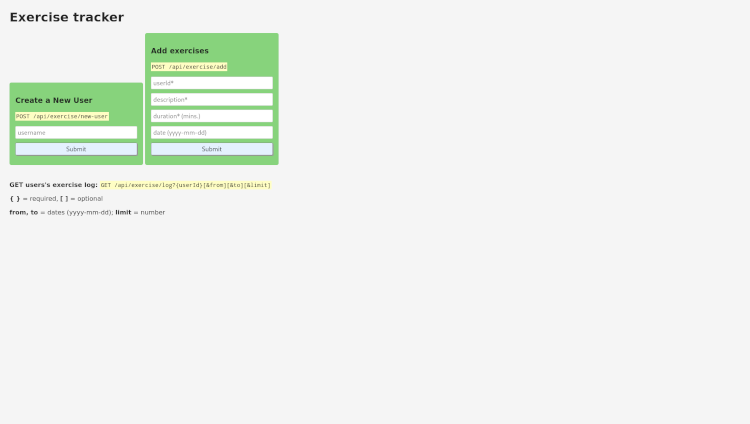
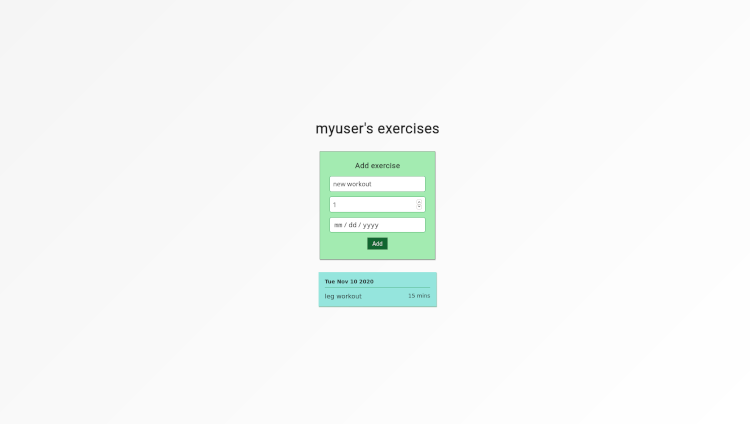
refactor(gallery): update exercise tracker image, url, and description

diff --git a/src/scripts/projecList.js b/src/scripts/projecList.js
@@ -87,14 +87,14 @@ const projectList = [
     name: 'Exercise Tracker',
     img: images['sh_exercise-tracker'],
     tags: ['Node.js', 'Express.js', 'Mongoose'],
-    url: 'https://guillermo-meardon.glitch.me/',
+    url: 'https://tfp-fcc-exercise-tracker.herokuapp.com/',
     gh: 'https://github.com/theforbiddenpool/fcc-projects/tree/master/apis-and-microservices/exercise-tracker',
     description: `
       <p>
         The Exercise Tracker project is part of the <a href="https://www.freecodecamp.org/learn/apis-and-microservices/apis-and-microservices-projects/exercise-tracker">APIs and Microservices FreeCodeCamp</a> module. 
       </p>
       <p>
-        It was the first backend project I struggled a lot with. I had to use Mongoose functionalities I hadn't previously worked with. But it taught me a lot about using Mongoose and Express. I got to try <code>express.Router()</code> for the first time. Overall, I think it works really well. I hope one day to build a better frontend to go with it.
+        It was the first backend project I struggled a lot with. I had to use Mongoose functionalities I hadn't previously worked with. But it taught me a lot about using Mongoose and Express. I got to try <code>express.Router()</code> for the first time and to use a better architecture. Overall, I think it works really well. Some time after I finished FCC, I decided to build a better frontend for it.
       </p>
     `,
   },
